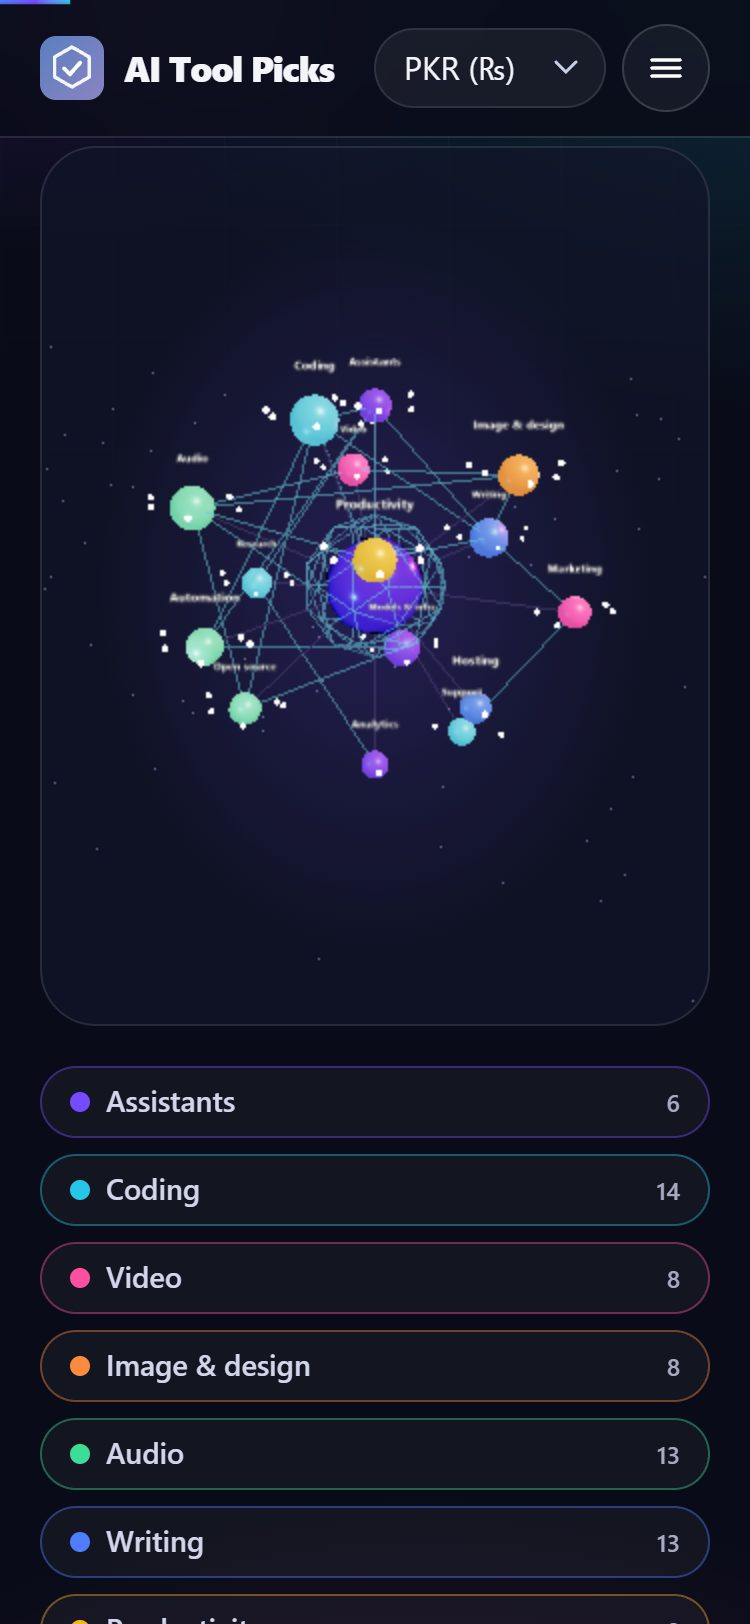
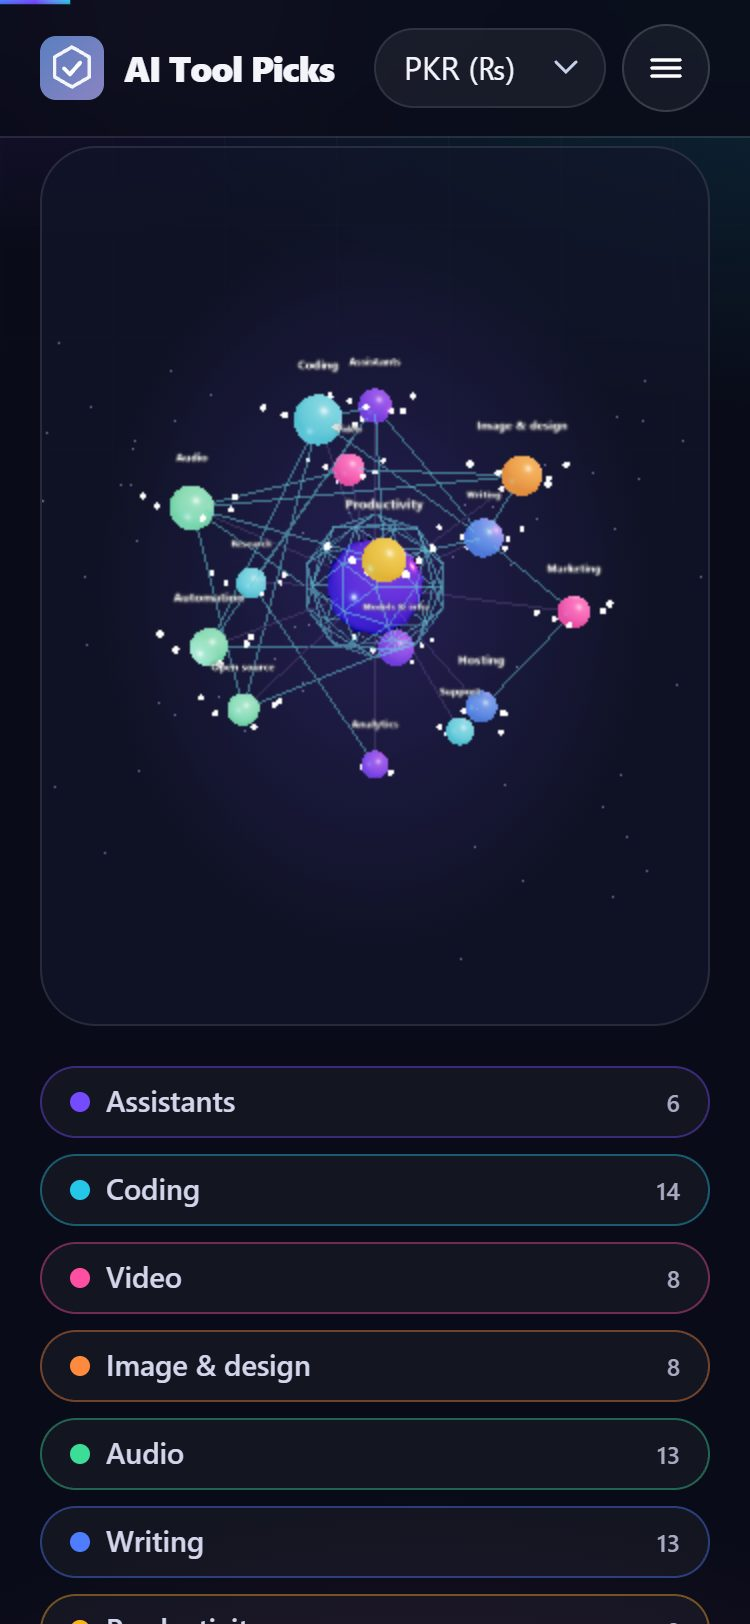
Docs: performance investigation, final live Lighthouse (3 runs per page), new screenshots

diff --git a/docs/LIGHTHOUSE.md b/docs/LIGHTHOUSE.md
@@ -87,3 +87,37 @@ Effect of the photographs (same build, `--blocked-url-patterns=*images/photo*`, 
 Effect of 3D: Lighthouse never loads it (it needs a scroll to the map), so it does not appear in these scores. Measured in a real browser on the live site: scrolling to the map starts the 3D canvas about 1.3 s later and costs about 0.9 s of long tasks over the next 8 s (before the hero fix, the hero WebGL also started on that scroll and the total was about 4.0 s).
 
 Earlier valid live numbers from before the redesign: home about 62-63 on desktop and mobile. Remaining main cost is script evaluation and hydration of the home page (main-thread script work about 4 s under mobile throttling).
+
+
+## 2026-10-31 (final polish): three mobile runs per page, live
+
+Lighthouse 13 (Chrome headless), default mobile profile (simulated slow 4G, 4x CPU), against https://ranabilal1912.github.io/aitoolpicks/ with a
+fresh query string on every run, after deploying commit 4809633. Only runs with a benchmark index of 700 or more are kept (bench shown); runs on this machine
+below that were discarded and repeated (four early runs scored 39 to 50 with a benchmark index near 250). Accessibility, Best Practices and SEO were 100 in every run.
+Later commits changed only the hero WebGL scene, which Lighthouse never loads (it needs a pointer or scroll), so these numbers still apply.
+INP cannot be measured in a lab run without interaction, so TBT is the interaction proxy.
+
+| Page | Run | Performance | LCP | TBT | CLS | FCP | Bench | LCP element |
+| --- | --- | --- | --- | --- | --- | --- | --- | --- |
+| Home | 1 | 67 | 2.1 s | 2,324 ms | 0 | 2.1 s | 963 | hero lead paragraph (text) |
+| Home | 2 | 73 | 1.9 s | 1,269 ms | 0 | 1.9 s | 929 | hero lead paragraph (text) |
+| Home | 3 | 70 | 2.3 s | 1,207 ms | 0.002 | 2.3 s | 895 | hero lead paragraph (text) |
+| **Home median** | | **70** | **2.1 s** | **1,269 ms** | 0 | 2.1 s | | |
+| Blog | 1 | 66 | 4.3 s | 712 ms | 0 | 1.7 s | 840 | featured cover photo (notebook-pen-md.webp) |
+| Blog | 2 | 69 | 4.1 s | 643 ms | 0 | 1.7 s | 806 | same |
+| Blog | 3 | 71 | 4.2 s | 495 ms | 0 | 1.9 s | 894 | same |
+| **Blog median** | | **69** | **4.2 s** | **643 ms** | 0 | 1.7 s | | |
+| News | 1 | 83 | 2.0 s | 561 ms | 0 | 2.0 s | 877 | lead paragraph (text) |
+| News | 2 | 84 | 1.9 s | 539 ms | 0 | 1.9 s | 901 | same |
+| News | 3 | 82 | 2.0 s | 617 ms | 0 | 2.0 s | 1138 | same |
+| **News median** | | **83** | **2.0 s** | **561 ms** | 0 | 2.0 s | | |
+| Tool (Claude) | 1 | 83 | 2.0 s | 541 ms | 0 | 2.0 s | 906 | lead paragraph (text) |
+| Tool (Claude) | 2 | 84 | 2.0 s | 493 ms | 0 | 2.0 s | 917 | same |
+| Tool (Claude) | 3 | 85 | 2.2 s | 450 ms | 0 | 2.2 s | 1062 | same |
+| **Tool median** | | **84** | **2.0 s** | **493 ms** | 0 | 2.0 s | | |
+
+Before this round (live, commit 3de6b85, same method, valid runs only): Home 68/73/69 (median 69, TBT median 1,987 ms), Blog 72/72/68 (median 72,
+LCP median 4.1 s), News 95/85/82 (median 85), Tool 82/86/87 (median 86). Earlier single-run figures in this file were 68 to 69 (Home), 72 (Blog), 84 (News), 83 (Tool).
+
+Reading: nothing reached 90 and none of the four pages moved by more than run-to-run noise (a few points) except a probable small drop in Home TBT.
+Blog LCP is still 4.2 s. See `docs/PERFORMANCE_INVESTIGATION.md` for the cause and for what was tried.

diff --git a/docs/PERFORMANCE_INVESTIGATION.md b/docs/PERFORMANCE_INVESTIGATION.md
@@ -45,9 +45,20 @@ about 2 s in "program" work: style, layout, paint and parsing a 410 KB document 
 Hydration is the largest post-paint task. Lighthouse sometimes sees it as one 1.4 s task and sometimes as pieces of 100 to 200 ms, which is why
 a single run of Home TBT ranges from about 500 ms to over 2 s on the same build. Conclusions drawn only from three or more runs.
 
-Changes made: the hero WebGL scene no longer starts or keeps running when the hero is not on screen (it used to start on the first scroll even
-if the visitor had jumped past it), and the 3D changes below. The page's component tree was not rewritten, so Home's hydration cost is
-essentially unchanged; this is stated in the report rather than hidden.
+The live traces show the same thing every time: one long task in the React chunk at about 3.2 s (0.9 to 1.6 s long) is the hydration of the
+whole page, plus a 0.4 to 0.5 s first layout. The hydration cost follows the size of the page (about 1,650 elements and 28 client components
+in `<main>`) and cannot be split without changing how the page is built.
+
+Changes made:
+
+* **Route prefetching.** Home started 15 to 17 route prefetch requests right after load, because every visible `next/link` prefetches. Links
+  outside the header now use `prefetch={false}` (they still prefetch on hover or tap). Measured locally: 15 to 17 requests became 3. Local
+  Lighthouse Home TBT: 690, 630, 770, 400 ms before; 600, 500, 460, 590 ms after. Live Home TBT medians: 1,987 ms before (three runs: 1,987,
+  1,232, 2,023) and 1,269 ms after (2,324, 1,269, 1,207). The medians moved the right way, but the run-to-run range is as large as the change,
+  so this is a probable small gain, not a proven one.
+* The hero WebGL scene no longer starts or keeps running when the hero is not on screen (it used to start on the first scroll even if the
+  visitor had jumped past it).
+* The page's component tree was not rewritten, so the hydration task itself is essentially unchanged. Home mobile TBT is still above one second.
 
 ## 3D
 
@@ -58,5 +69,8 @@ essentially unchanged; this is stated in the report rather than hidden.
 * One geometry and one material are shared by all tool dots (about 100 meshes) instead of a pair per dot.
 * Bug found and fixed: the opening camera animation always ended at the desktop distance, so on a phone the map was cropped at both sides.
   The resting distance now follows the shape of the box. Checked on a 375 px viewport.
+* Hero scene (found while checking screenshots): its nodes were about three times larger than the static network they fade in over, which
+  put big flat circles across the headline once WebGL started. They are now sized like the static ones, the network sits further right on
+  desktop, and the phone version is smaller and dimmer so the text stays readable.
 * Not changed: node count, sphere detail, pixel ratio caps (1 on phones, 1.5 on desktop) and antialiasing (off on phones), because they were
   already conservative and the visual quality was to stay as it is.
